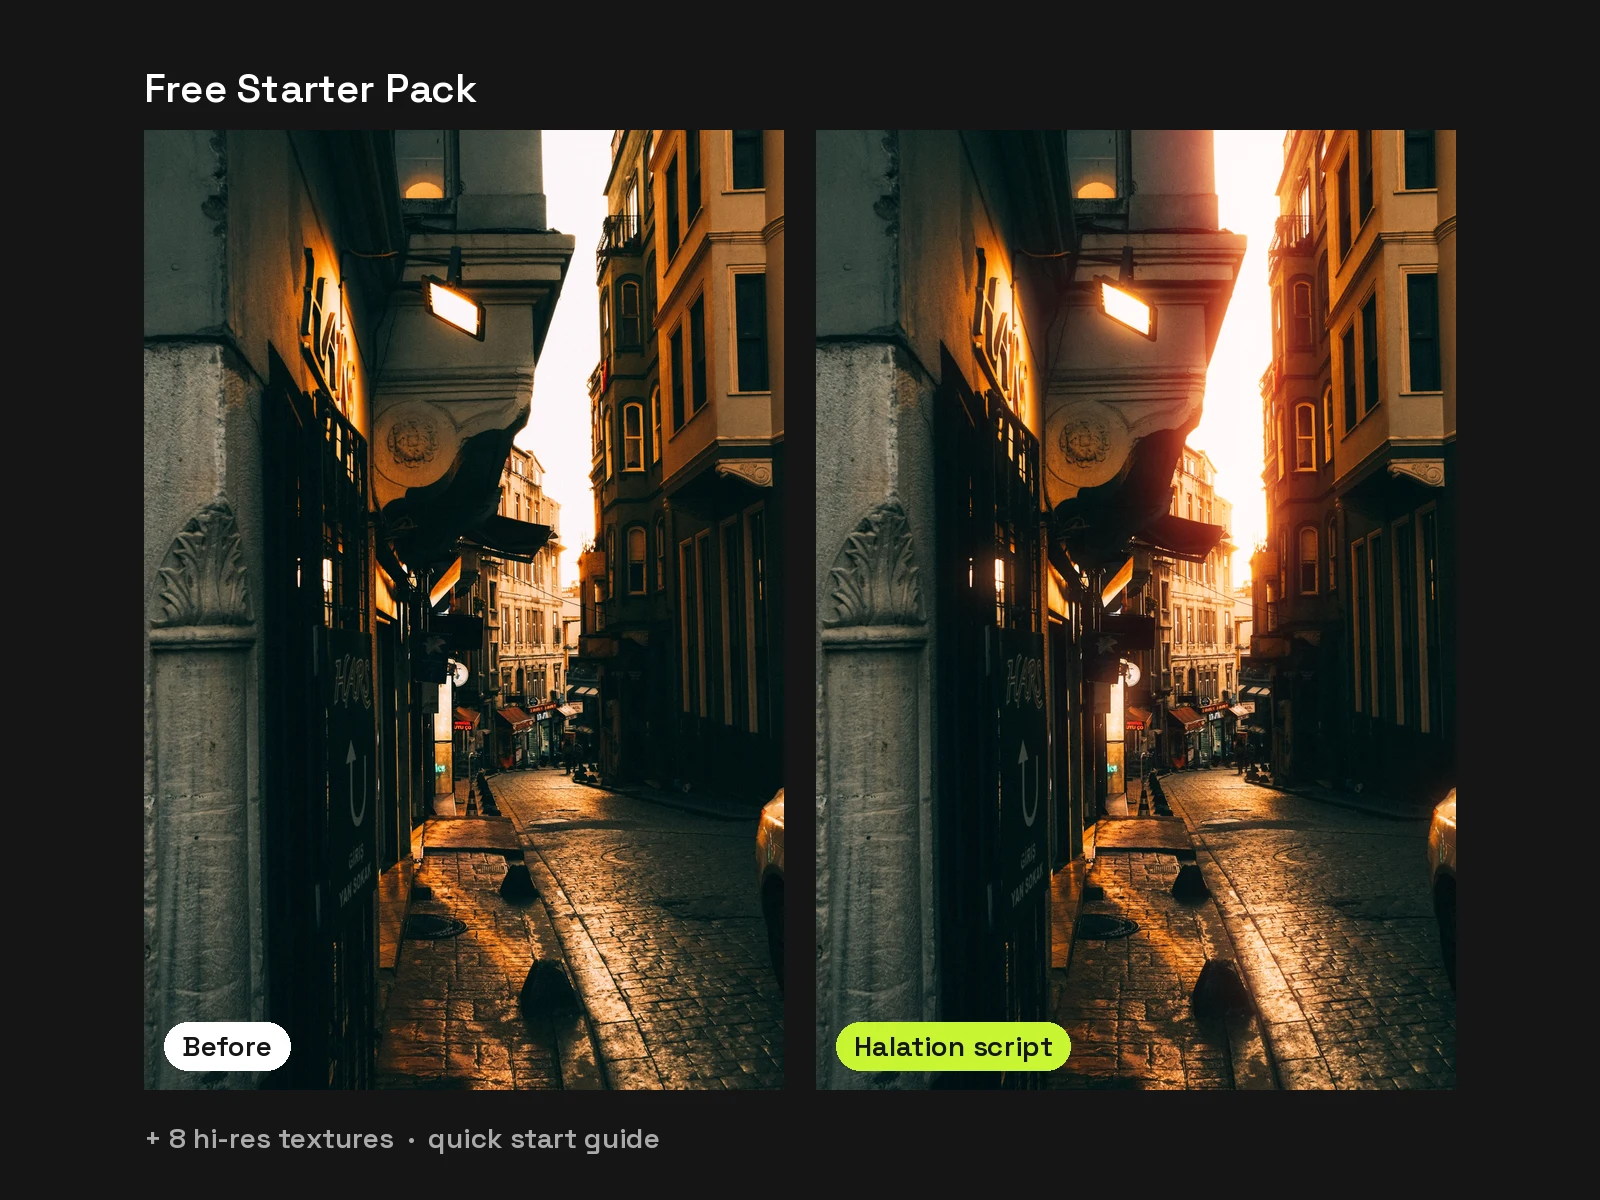
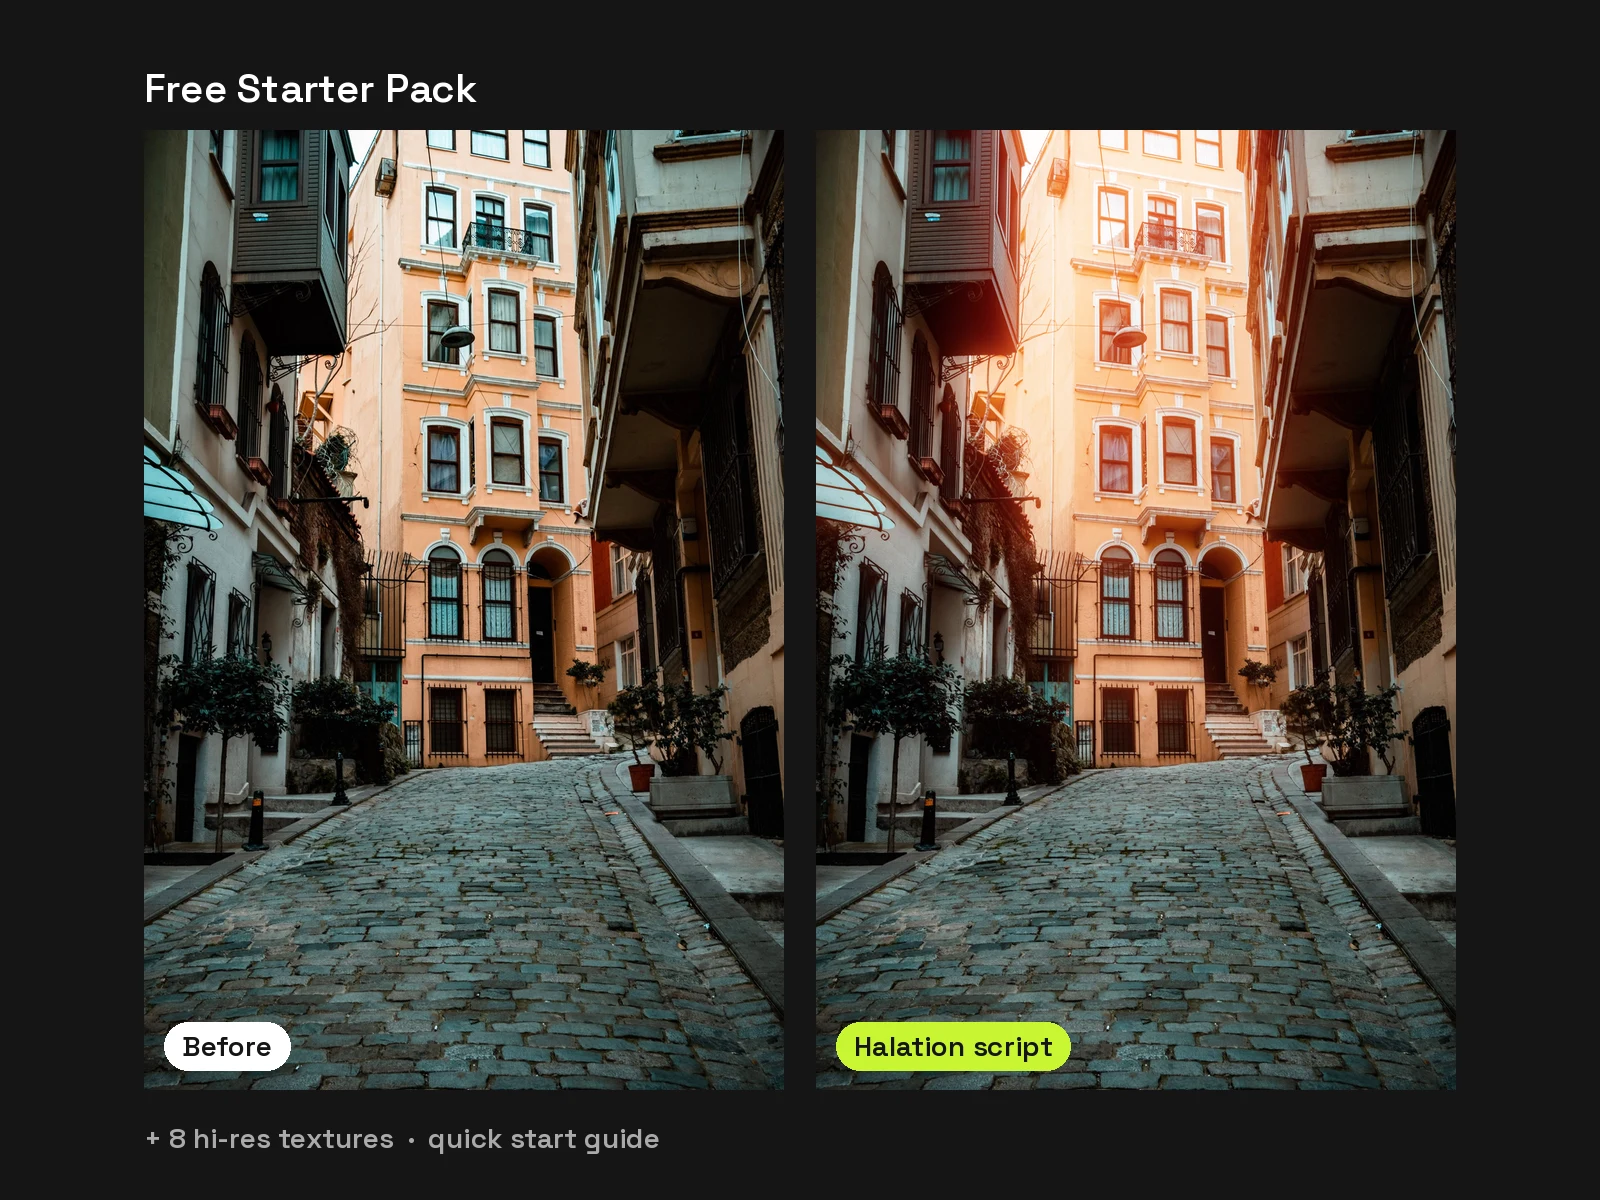
Free Starter Pack cover: Halation on the cobbled street photo
Claude-Session: https://claude.ai/code/session_01HkLuk7nQtRKSDjt33gFM95

diff --git a/src/content/products/free-starter-pack.md b/src/content/products/free-starter-pack.md
@@ -12,7 +12,7 @@ motif: dots
 cover: /images/products/free-starter-pack/01.webp
 gallery:
   - image: /images/products/free-starter-pack/01.webp
-    alt: "Before and after: a narrow street at sunset, with a red film glow bleeding around the lamp and the bright sky"
+    alt: "Before and after: a cobbled street with a peach-coloured house, with a red film glow bleeding over the facade and around the bright edges"
   - image: /images/products/free-starter-pack/02.webp
     alt: "Cyan and green glitch texture"
   - image: /images/products/free-starter-pack/03.webp
@@ -56,4 +56,4 @@ Everything you need to see what Shapeshifters does, free.
 
 Enter your email and the download link arrives right away.
 
-<small>Cover photo: lokmansevim on Pexels.</small>
+<small>Cover photo: sanlad on Pexels.</small>
